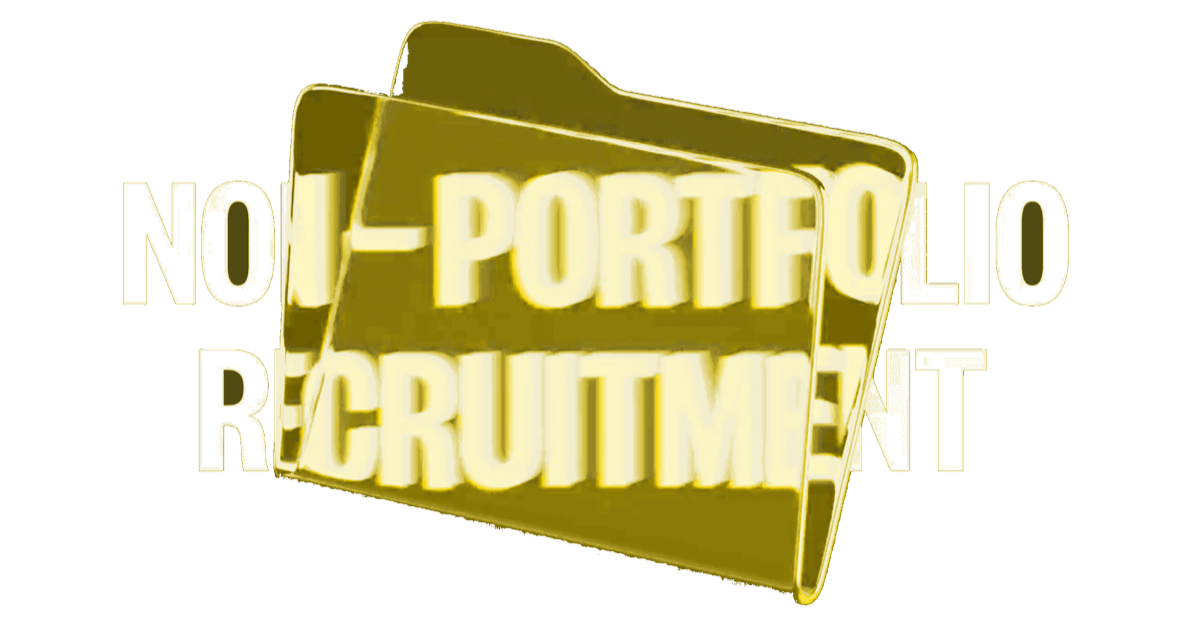
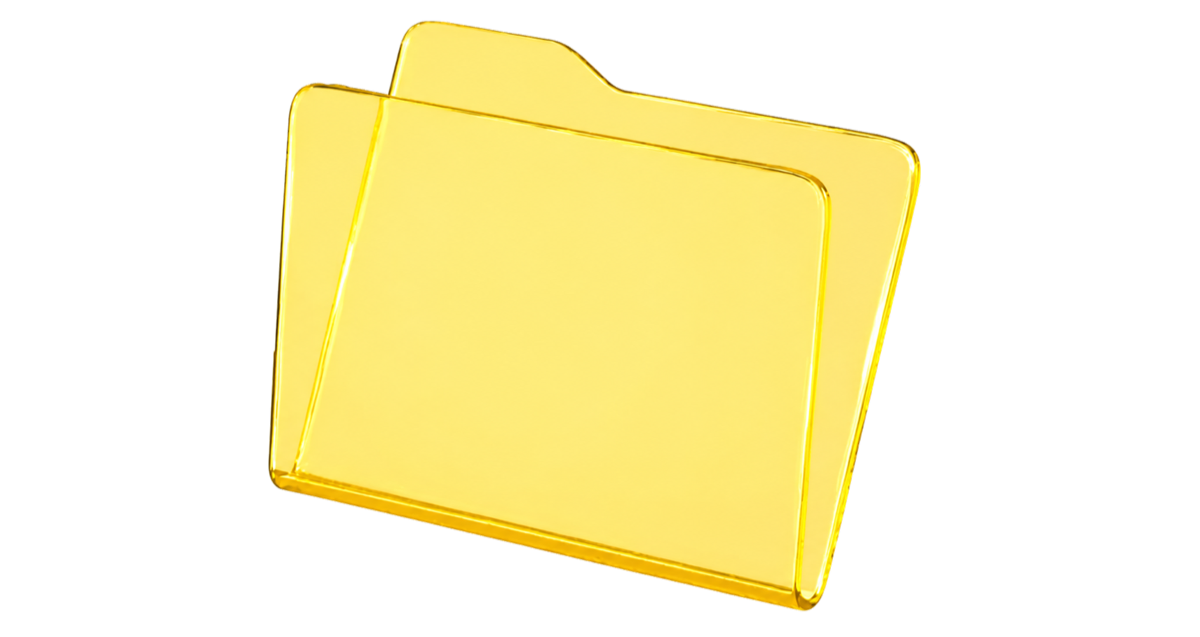
Rename hero to Project Portfolio Management

diff --git a/app/globals.css b/app/globals.css
@@ -101,54 +101,40 @@ a { color: inherit; text-decoration: none; }
   left: 50%;
   top: 52%;
   z-index: 1;
-  width: min(58vw, 820px);
-  aspect-ratio: 1.58 / 1;
+  width: min(62vw, 900px);
+  aspect-ratio: 1720 / 914;
   transform: translate(-50%, -50%);
   perspective: 1100px;
 }
 
-.glass-folder {
+.folder-visual {
   position: absolute;
   inset: 0;
-  overflow: hidden;
-  border: 1px solid rgba(161,123,0,.43);
-  border-radius: 24px 44px 28px 22px;
-  background:
-    linear-gradient(118deg, rgba(255,255,255,.32), rgba(255,235,55,.14) 32%, rgba(255,219,27,.28) 76%, rgba(255,255,255,.15)),
-    rgba(255,228,38,.08);
-  box-shadow:
-    inset 0 1px 1px rgba(255,255,255,.95),
-    inset 18px -16px 34px rgba(255,210,0,.13),
-    0 28px 58px rgba(109,93,0,.16),
-    -3px 0 0 rgba(117,255,209,.16),
-    4px 0 0 rgba(161,95,255,.11);
-  padding: 11%;
-  backdrop-filter: blur(8px) saturate(165%) contrast(1.06);
-  clip-path: polygon(0 17%, 24% 17%, 30% 0, 48% 0, 56% 10%, 100% 22%, 100% 100%, 0 100%);
-  transform-style: preserve-3d;
+  z-index: 1;
+  width: 100%;
+  height: 100%;
+  object-fit: contain;
+  mix-blend-mode: multiply;
+  opacity: .78;
+  filter: saturate(1.08) brightness(1.05);
 }
 
-.glass-folder::before {
+.folder-label {
   position: absolute;
-  inset: 0;
-  background:
-    linear-gradient(105deg, transparent 0 28%, rgba(255,255,255,.55) 31%, transparent 35%),
-    linear-gradient(180deg, rgba(255,255,255,.38), transparent 18% 80%, rgba(196,151,0,.18));
-  mix-blend-mode: screen;
-  content: "";
+  left: 50%;
+  top: 58%;
+  z-index: 2;
+  display: flex;
+  flex-direction: column;
+  align-items: center;
+  transform: translate(-50%, -50%) rotate(-5deg);
+  color: rgba(28,24,4,.83);
+  text-align: center;
+  text-shadow: 0 1px 2px rgba(255,255,255,.5);
 }
 
-.glass-folder::after {
-  position: absolute;
-  inset: 17% 2% auto;
-  height: 1px;
-  background: linear-gradient(90deg, transparent, rgba(255,255,255,.98), rgba(126,255,221,.5), transparent);
-  filter: blur(.25px);
-  content: "";
-}
-
-.glass-folder--back { transform: rotateX(6deg) rotateY(-8deg) rotateZ(9deg) translate(9%, -11%); opacity: .73; }
-.glass-folder--front { transform: rotateX(-3deg) rotateY(6deg) rotateZ(-5deg) translate(-4%, 5%); opacity: .86; }
+.folder-label strong { font-size: clamp(44px, 7vw, 92px); font-weight: 900; letter-spacing: -.1em; line-height: .82; }
+.folder-label small { margin-top: 14px; font-size: clamp(8px, .8vw, 12px); font-weight: 800; letter-spacing: .16em; }
 
 .hero-bottom { display: grid; grid-template-columns: minmax(240px, 450px) 1fr; align-items: end; gap: 30px; }
 .hero-bottom p { margin: 0; font-size: clamp(15px, 1.35vw, 20px); letter-spacing: -.025em; }
@@ -166,7 +152,8 @@ a { color: inherit; text-decoration: none; }
   .hero-stage { min-height: 570px; }
   .hero-title { font-size: clamp(60px, 20vw, 112px); line-height: .78; }
   .folder-scene { top: 52%; width: min(87vw, 610px); }
-  .glass-folder { border-radius: 12px 28px 18px 16px; }
+  .folder-label strong { font-size: clamp(42px, 12vw, 72px); }
+  .folder-label small { font-size: 8px; }
   .hero-bottom { grid-template-columns: 1fr auto; }
   .hero-meta span:last-child { display: none; }
 }

diff --git a/index.html b/index.html
@@ -5,23 +5,23 @@
     <meta name="viewport" content="width=device-width, initial-scale=1" />
     <meta name="theme-color" content="#f3ff45" />
     <meta name="description" content="A human-led decision-support workspace for reviewing IT project proposals." />
-    <meta property="og:title" content="PPM Review — IT Project Proposal Review" />
+    <meta property="og:title" content="PPM — Project Portfolio Management" />
     <meta property="og:description" content="A human-led decision-support workspace for reviewing IT project proposals." />
     <meta property="og:type" content="website" />
     <meta property="og:image" content="public/og.png" />
     <meta name="twitter:card" content="summary_large_image" />
-    <meta name="twitter:title" content="PPM Review — IT Project Proposal Review" />
+    <meta name="twitter:title" content="PPM — Project Portfolio Management" />
     <meta name="twitter:description" content="Search, compare, and prepare IT project proposals for human review." />
     <meta name="twitter:image" content="public/og.png" />
-    <title>PPM Review — IT Project Proposal Review</title>
+    <title>PPM — Project Portfolio Management</title>
     <link rel="icon" href="public/favicon.svg" />
     <link rel="stylesheet" href="app/globals.css" />
   </head>
   <body>
     <header class="site-header">
-      <a class="wordmark" href="#top" aria-label="PPM Review home">
+      <a class="wordmark" href="#top" aria-label="PPM home">
         <span class="wordmark-dot"></span>
-        <span>PPM / REVIEW</span>
+        <span>PPM</span>
       </a>
       <nav aria-label="Primary navigation">
         <a href="#approach">Approach</a>
@@ -41,14 +41,15 @@
         <div class="hero-stage">
           <h1 class="hero-title" id="hero-title">
             <span>PROJECT</span>
-            <span>PROPOSAL</span>
-            <span>REVIEW</span>
+            <span>PORTFOLIO</span>
+            <span>MANAGEMENT</span>
           </h1>
 
           <div class="folder-scene" aria-hidden="true">
-            <div class="glass-folder glass-folder--back">
-            </div>
-            <div class="glass-folder glass-folder--front">
+            <img class="folder-visual" src="public/folder-reference-yellow-small.png" alt="" />
+            <div class="folder-label">
+              <strong>PPM</strong>
+              <small>PROJECT PORTFOLIO MANAGEMENT</small>
             </div>
           </div>
         </div>
@@ -200,7 +201,7 @@
 
     <footer class="site-footer">
       <div>
-        <p>PPM / REVIEW</p>
+        <p>PPM</p>
         <h2>Better questions before bigger software.</h2>
       </div>
       <div class="footer-meta">
